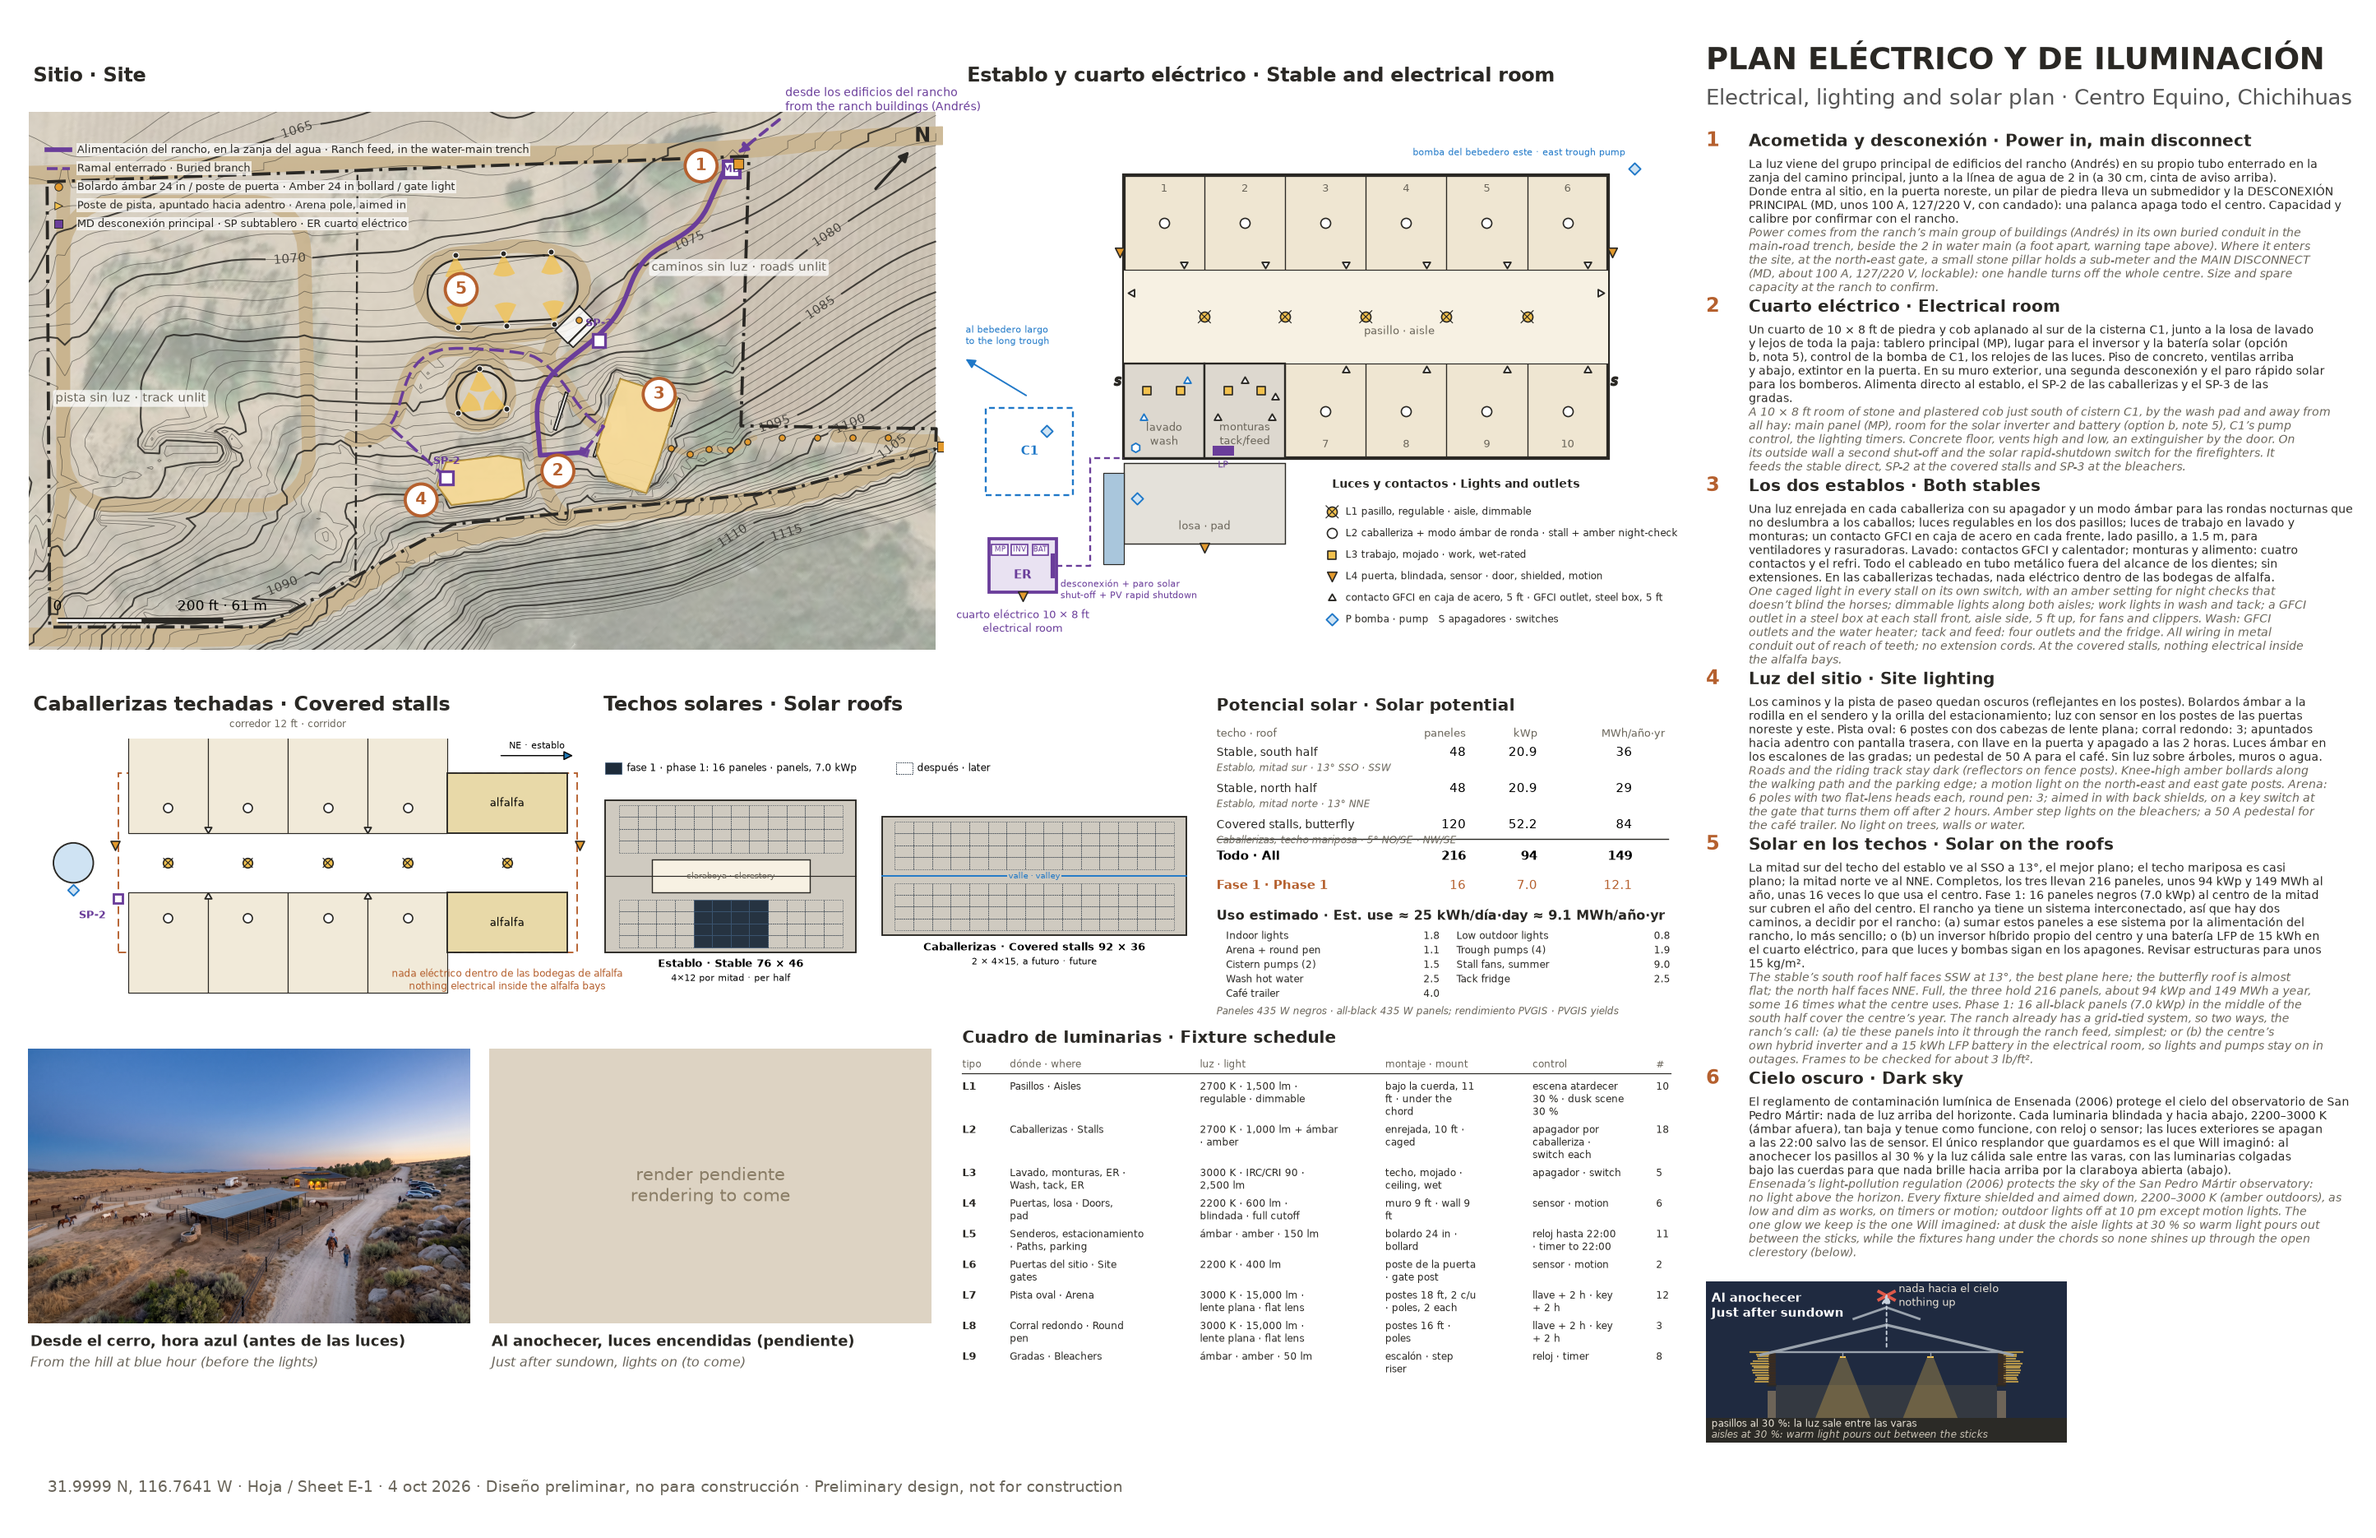
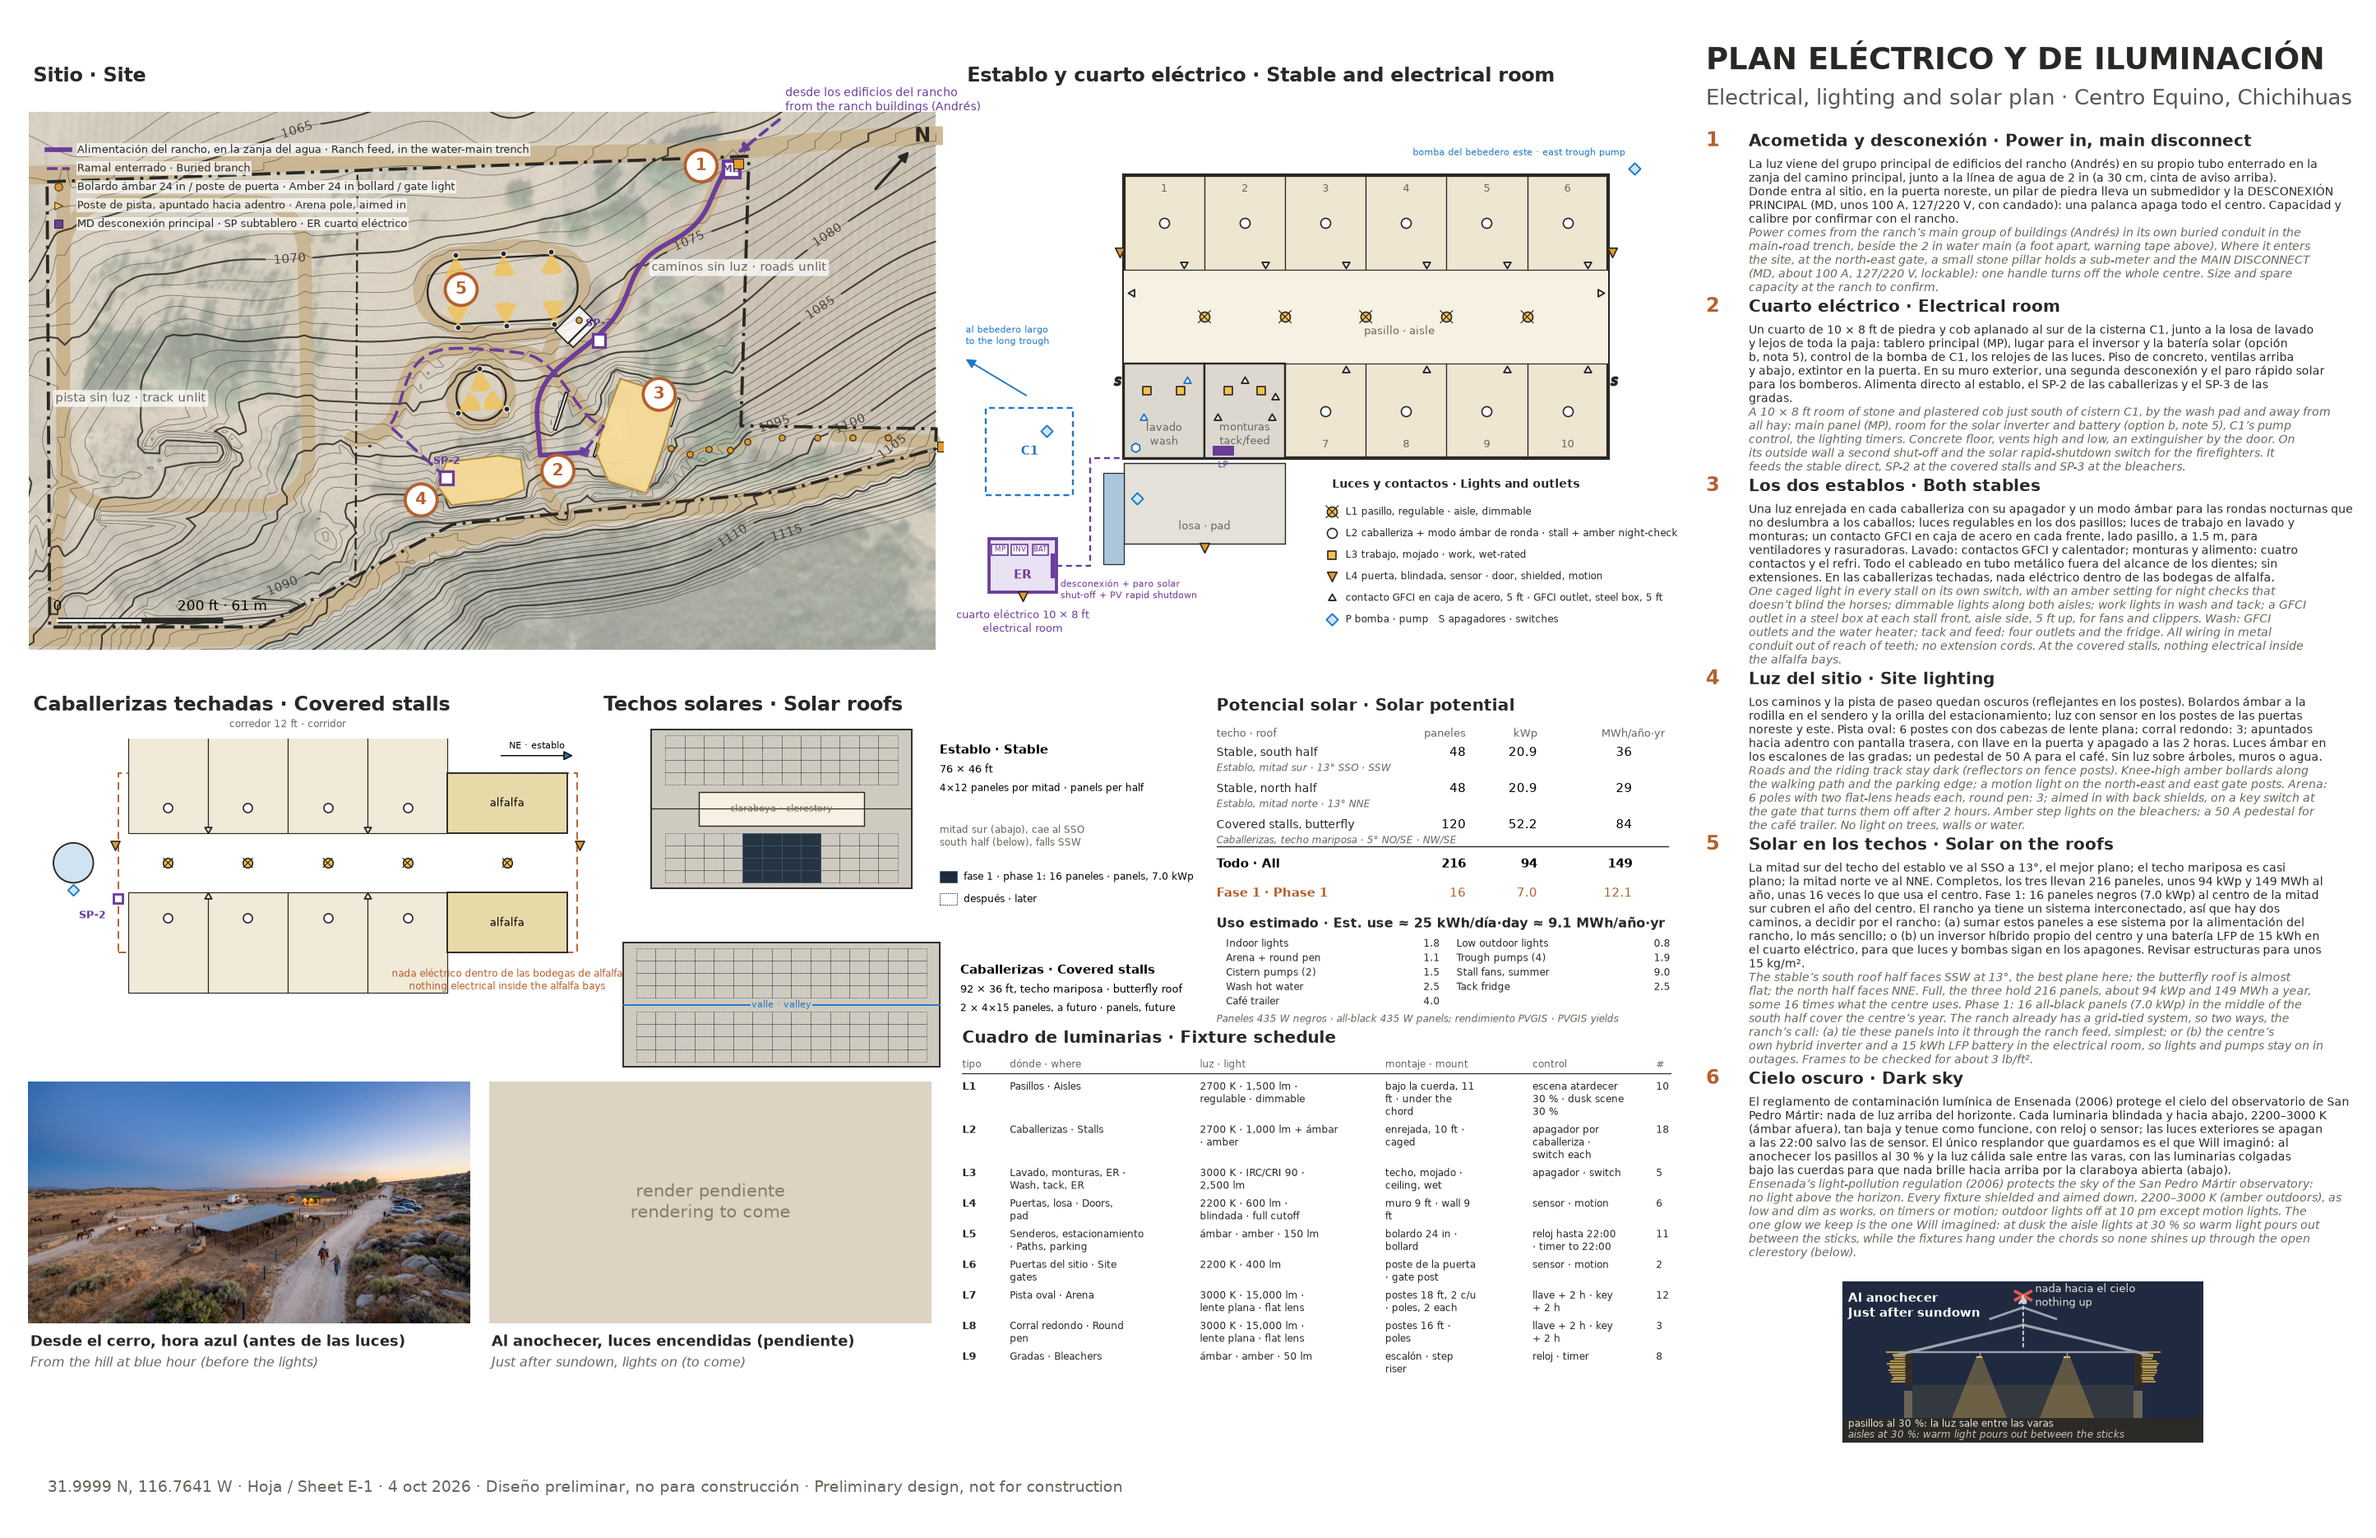
E-1: solar roof plans stacked and larger, dusk section centred, table rule fix

diff --git a/projects/electrical.py b/projects/electrical.py
@@ -171,7 +171,7 @@ cx_.text(XS+12,-RE-3,'nada eléctrico dentro de las bodegas de alfalfa\nnothing 
 cx_.text(-HL+32,HD+1.2,'corredor 12 ft · corridor',fontsize=5.2,ha='center',color='#6a655a'); cx_.annotate('',xy=(46,21.5),xytext=(30,21.5),arrowprops=dict(arrowstyle='-|>',lw=.6)); cx_.text(38,22.5,'NE · establo',fontsize=4.8,ha='center',va='bottom')
 
 # ---------------- roof plans: solar ----------------
-rx=fig.add_axes([0.252,0.335,0.25,0.195]); rx.set_aspect('equal'); rx.axis('off'); rx.set_xlim(-40,140); rx.set_ylim(-14,62)
+rx=fig.add_axes([0.252,0.302,0.258,0.228]); rx.set_aspect('equal'); rx.axis('off'); rx.set_xlim(-48,120); rx.set_ylim(-2,100)   # 4 Oct (Will): the two roofs stacked, bigger
 fig.text(0.254,0.538,'Techos solares · Solar roofs',fontsize=10,weight='bold',color=INK)
 def panels(ax_,x0,y0,nr,nc,dy,col,alpha,lw=.3,sel=None):
     pw,ph=PANEL[0],PANEL[1]*(math.cos(math.radians(13.4)) if dy else 1)
@@ -180,18 +180,22 @@ def panels(ax_,x0,y0,nr,nc,dy,col,alpha,lw=.3,sel=None):
             on=sel is None or sel(r_,c_)
             yy=y0+(r_*ph if dy>0 else -(r_+1)*ph); ax_.add_patch(MRect((x0+c_*pw,yy),pw,ph,fc=PV if on else 'none',ec=PVF if on else PV,lw=lw if on else .35,alpha=alpha if on else .55,ls='-' if on else (0,(2,1.2))))
 # stable roof (76 x 46 with overhangs), the open clerestory, ridge; plan y up = north
-rx.add_patch(MRect((-38,0),76,46,fc='#cfcac0',ec=INK,lw=.8)); rx.plot([-38,38],[23,23],color=INK,lw=.5)
-rx.add_patch(MRect((-24,18),48,10,fc='#f7f1e3',ec=INK,lw=.6)); rx.text(0,23,'claraboya · clerestory',fontsize=4.4,ha='center',va='center',color='#6a655a')
+Y0=52                                                                                              # stable roof on top (y 52..98), stalls roof below (y 0..36)
+rx.add_patch(MRect((-38,Y0),76,46,fc='#cfcac0',ec=INK,lw=.8)); rx.plot([-38,38],[Y0+23,Y0+23],color=INK,lw=.5)
+rx.add_patch(MRect((-24,Y0+18),48,10,fc='#f7f1e3',ec=INK,lw=.6)); rx.text(0,Y0+23,'claraboya · clerestory',fontsize=4.8,ha='center',va='center',color='#6a655a')
 w0=-st_c*PANEL[0]/2
-panels(rx,w0,1.5,st_r,st_c,1,PV,.95,sel=lambda r_,c_:abs(c_+.5-st_c/2)<=2)                       # south half: phase 1 = the middle 4 x 4
-panels(rx,w0,44.5,st_r,st_c,-1,PV,.95,sel=lambda r_,c_:False)                                      # north half: optional
-rx.text(0,-2,'Establo · Stable 76 × 46',fontsize=5.4,ha='center',va='top',weight='bold'); rx.text(0,-6.5,f'{st_r}×{st_c} por mitad · per half',fontsize=4.8,ha='center',va='top')
-X2=92; rx.add_patch(MRect((X2-46,5),92,36,fc='#cfcac0',ec=INK,lw=.8)); rx.plot([X2-46,X2+46],[23,23],color='#1f78c8',lw=.8)
-s0=X2-sl_c*PANEL[0]/2; panels(rx,s0,5+1.5,sl_r,sl_c,1,PV,.95,sel=lambda r_,c_:False); panels(rx,s0,41-1.5,sl_r,sl_c,-1,PV,.95,sel=lambda r_,c_:False)
-rx.text(X2,23,'valle · valley',fontsize=4.4,ha='center',va='center',color='#1f78c8',bbox=dict(fc='#cfcac0',ec='none',pad=.6))
-rx.text(X2,3,'Caballerizas · Covered stalls 92 × 36',fontsize=5.4,ha='center',va='top',weight='bold'); rx.text(X2,-1.5,f'2 × {sl_r}×{sl_c}, a futuro · future',fontsize=4.8,ha='center',va='top')
-rx.add_patch(MRect((-38,54),5,3.4,fc=PV,ec=PVF,lw=.3)); rx.text(-31.5,55.7,f'fase 1 · phase 1: {PH1} paneles · panels, {PH1_KW:.1f} kWp',fontsize=4.9,va='center')
-rx.add_patch(MRect((50,54),5,3.4,fc='none',ec=PV,lw=.35,ls=(0,(2,1.2)))); rx.text(56.5,55.7,'después · later',fontsize=4.9,va='center')
+panels(rx,w0,Y0+1.5,st_r,st_c,1,PV,.95,sel=lambda r_,c_:abs(c_+.5-st_c/2)<=2)                    # south half: phase 1 = the middle 4 x 4
+panels(rx,w0,Y0+44.5,st_r,st_c,-1,PV,.95,sel=lambda r_,c_:False)                                   # north half: optional
+rx.text(46,Y0+40,'Establo · Stable',fontsize=6.4,weight='bold',va='center'); rx.text(46,Y0+34.5,'76 × 46 ft',fontsize=5.4,va='center')
+rx.text(46,Y0+29,f'{st_r}×{st_c} paneles por mitad · panels per half',fontsize=5.0,va='center')
+rx.text(46,Y0+15,'mitad sur (abajo), cae al SSO\nsouth half (below), falls SSW',fontsize=5.0,va='center',color='#6a655a')
+rx.add_patch(MRect((-46,0),92,36,fc='#cfcac0',ec=INK,lw=.8)); rx.plot([-46,46],[18,18],color='#1f78c8',lw=.8)
+s0=-sl_c*PANEL[0]/2; panels(rx,s0,1.5,sl_r,sl_c,1,PV,.95,sel=lambda r_,c_:False); panels(rx,s0,36-1.5,sl_r,sl_c,-1,PV,.95,sel=lambda r_,c_:False)
+rx.text(0,18,'valle · valley',fontsize=4.8,ha='center',va='center',color='#1f78c8',bbox=dict(fc='#cfcac0',ec='none',pad=.6))
+rx.text(52,28,'Caballerizas · Covered stalls',fontsize=6.4,weight='bold',va='center'); rx.text(52,22.5,'92 × 36 ft, techo mariposa · butterfly roof',fontsize=5.4,va='center')
+rx.text(52,17,f'2 × {sl_r}×{sl_c} paneles, a futuro · panels, future',fontsize=5.0,va='center')
+rx.add_patch(MRect((46,Y0+1.5),5,3.4,fc=PV,ec=PVF,lw=.3)); rx.text(53,Y0+3.2,f'fase 1 · phase 1: {PH1} paneles · panels, {PH1_KW:.1f} kWp',fontsize=5.0,va='center')
+rx.add_patch(MRect((46,Y0-5),5,3.4,fc='none',ec=PV,lw=.35,ls=(0,(2,1.2)))); rx.text(53,Y0-3.3,'después · later',fontsize=5.0,va='center')
 # ---------------- solar + load table ----------------
 tx0=0.512; ty=0.538
 fig.text(tx0,ty,'Potencial solar · Solar potential',fontsize=8.6,weight='bold',color=INK); ty-=.017
@@ -201,7 +205,7 @@ ty-=.0125
 for nm,orient,n,y in PV_ROWS:
     fig.text(tx0,ty,nm.split(' · ')[1],fontsize=6,color=INK); fig.text(tx0,ty-.0098,f'{nm.split(" · ")[0]} · {orient}',fontsize=5.0,color='#6a655a',style='italic')
     fig.text(tx0+.105,ty,f'{n}',fontsize=6.4,ha='right'); fig.text(tx0+.135,ty,f'{kw(n):.1f}',fontsize=6.4,ha='right'); fig.text(tx0+.175,ty,f'{kw(n)*y/1000:.0f}',fontsize=6.4,ha='right'); ty-=.0235
-fig.add_artist(matplotlib.lines.Line2D([tx0,tx0+.19],[ty+.0165,ty+.0165],color=INK,lw=.6))
+ty-=.005; fig.add_artist(matplotlib.lines.Line2D([tx0,tx0+.19],[ty+.0165,ty+.0165],color=INK,lw=.6))
 fig.text(tx0,ty+.003,'Todo · All',fontsize=6.4,weight='bold'); fig.text(tx0+.105,ty+.003,f'{N_ST*2+N_SL}',fontsize=6.4,ha='right',weight='bold'); fig.text(tx0+.135,ty+.003,f'{POT_KW:.0f}',fontsize=6.4,ha='right',weight='bold'); fig.text(tx0+.175,ty+.003,f'{POT_MWH:.0f}',fontsize=6.4,ha='right',weight='bold')
 ty-=.016; fig.text(tx0,ty,'Fase 1 · Phase 1',fontsize=6.4,weight='bold',color='#b5602e'); fig.text(tx0+.105,ty,f'{PH1}',fontsize=6.4,ha='right',color='#b5602e'); fig.text(tx0+.135,ty,f'{PH1_KW:.1f}',fontsize=6.4,ha='right',color='#b5602e'); fig.text(tx0+.175,ty,f'{PH1_MWH:.1f}',fontsize=6.4,ha='right',color='#b5602e')
 ty-=.02; fig.text(tx0,ty,f'Uso estimado · Est. use ≈ {DAY:.0f} kWh/día·day ≈ {YEAR/1000:.1f} MWh/año·yr',fontsize=6.6,weight='bold',color=INK); ty-=.0125
@@ -212,8 +216,8 @@ ty-=.0094*((len(LOADS)+1)//2)
 fig.text(tx0,ty-.002,f'Paneles {PANEL[2]} W negros · all-black {PANEL[2]} W panels; rendimiento PVGIS · PVGIS yields',fontsize=4.9,color='#6a655a',style='italic')
 
 # ---------------- renderings: two slots ----------------
-R_SLOTS={'E1-0':{'rect':[30,1125,505,1420],'src':'C:/Users/wrollins/WebDev/coyote-studio/projects/renders/fans/painted/4-hill-s-fan-blue-google.png','crop':[0,0,1,1]},
-         'E1-1':{'rect':[525,1125,1000,1420],'src':'','crop':[0,0,1,1]}}
+R_SLOTS={'E1-0':{'rect':[30,1160,505,1420],'src':'C:/Users/wrollins/WebDev/coyote-studio/projects/renders/fans/painted/4-hill-s-fan-blue-google.png','crop':[0,0,1,1]},
+         'E1-1':{'rect':[525,1160,1000,1420],'src':'','crop':[0,0,1,1]}}
 R_CAP=[('Desde el cerro, hora azul (antes de las luces)','From the hill at blue hour (before the lights)'),('Al anochecer, luces encendidas (pendiente)','Just after sundown, lights on (to come)')]
 if 'SLOTS' in globals():
     for _k,_v in R_SLOTS.items():
@@ -279,7 +283,7 @@ for k,(en,es,ten,tes) in enumerate(NOTES_E):
     y=ly-.0045
 print('notes end at', round(ly, 3))
 # ---------------- night section: the glow through the sticks, nothing up ----------------
-nx=fig.add_axes([px,0.062,0.265,min(.16,max(.105,y-.075))]); nx.set_xlim(-33,33); nx.set_ylim(-4.5,25); nx.set_aspect('equal'); nx.set_anchor('W'); nx.axis('off')
+nx=fig.add_axes([px,0.062,0.985-px,min(.16,max(.105,y-.075))]); nx.set_xlim(-33,33); nx.set_ylim(-4.5,25); nx.set_aspect('equal'); nx.set_anchor('C'); nx.axis('off')
 nx.add_patch(MRect((-33,-4.5),66,29.5,fc='#1f2a40',ec='none'))
 nx.add_patch(MRect((-33,-4.5),66,4.5,fc='#2b2a26',ec='none'))
 HD_,EAVE,RIDGE=21,12,17; rz=lambda yy:RIDGE-(RIDGE-EAVE)/HD_*abs(yy)
